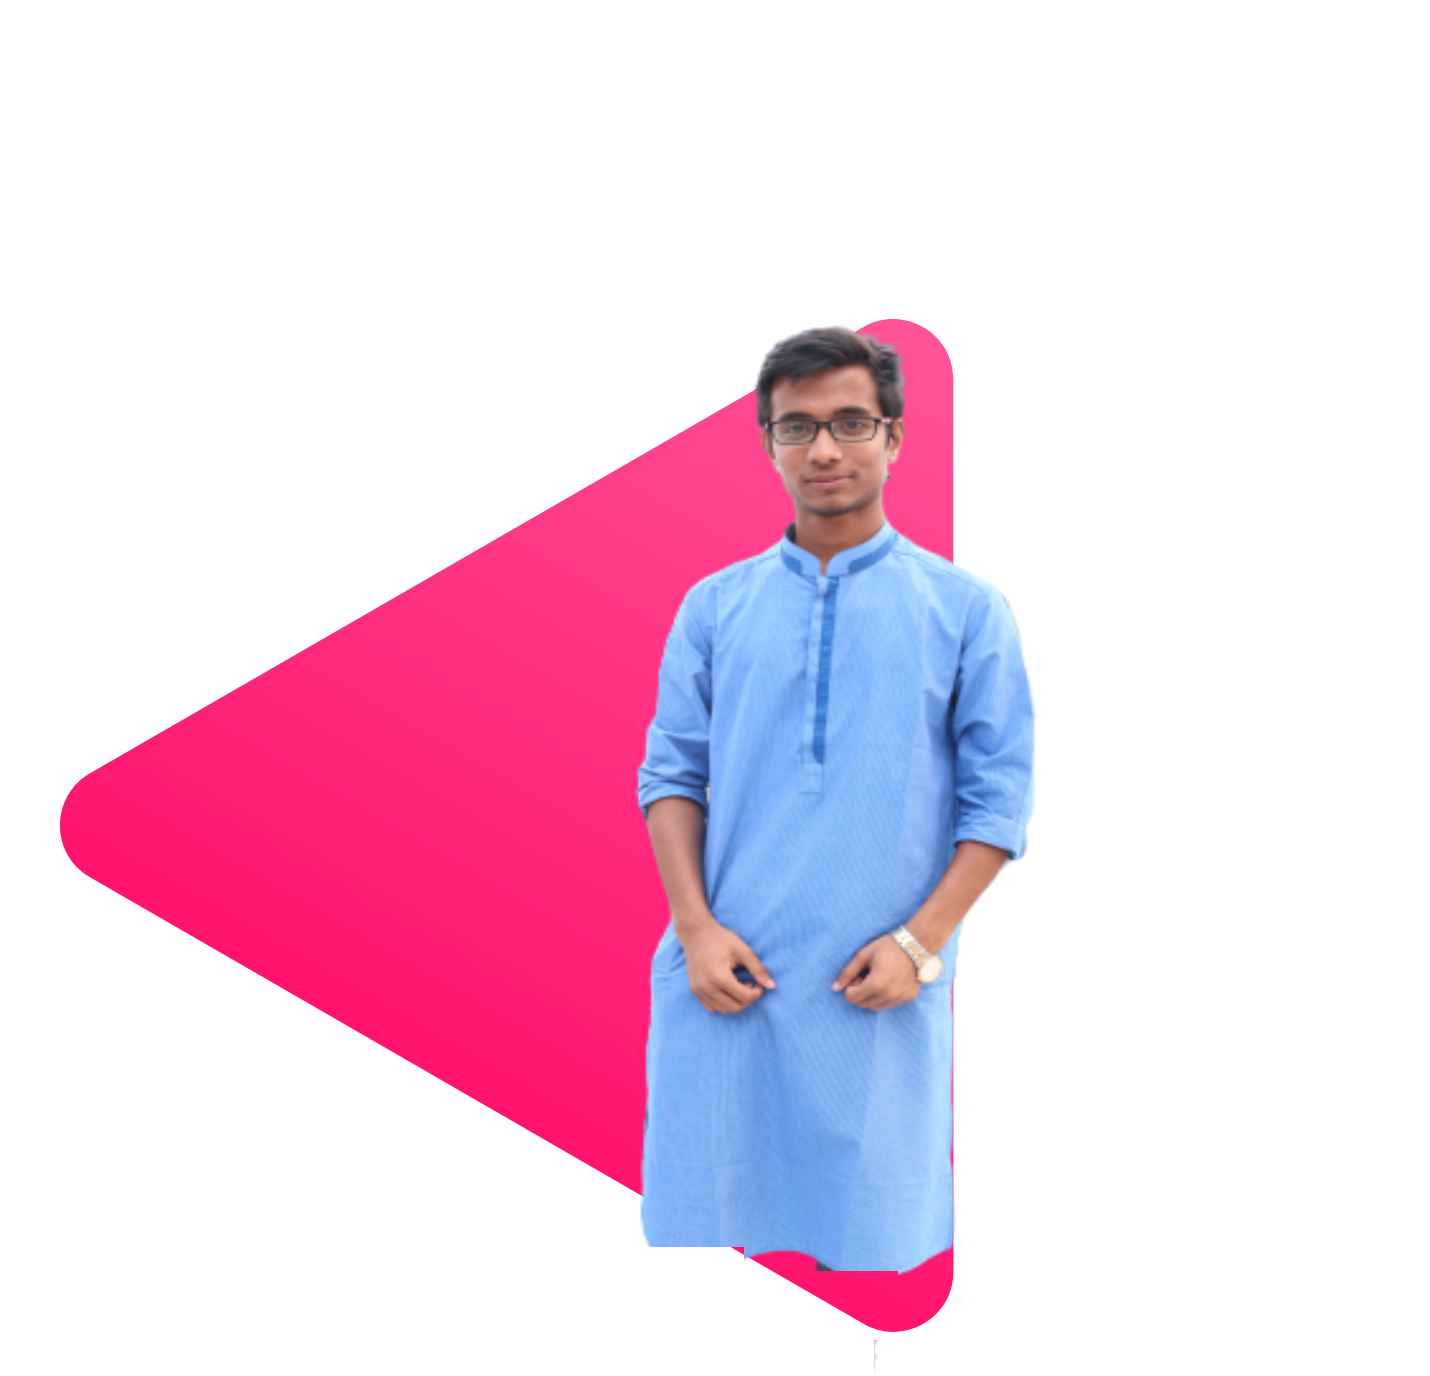
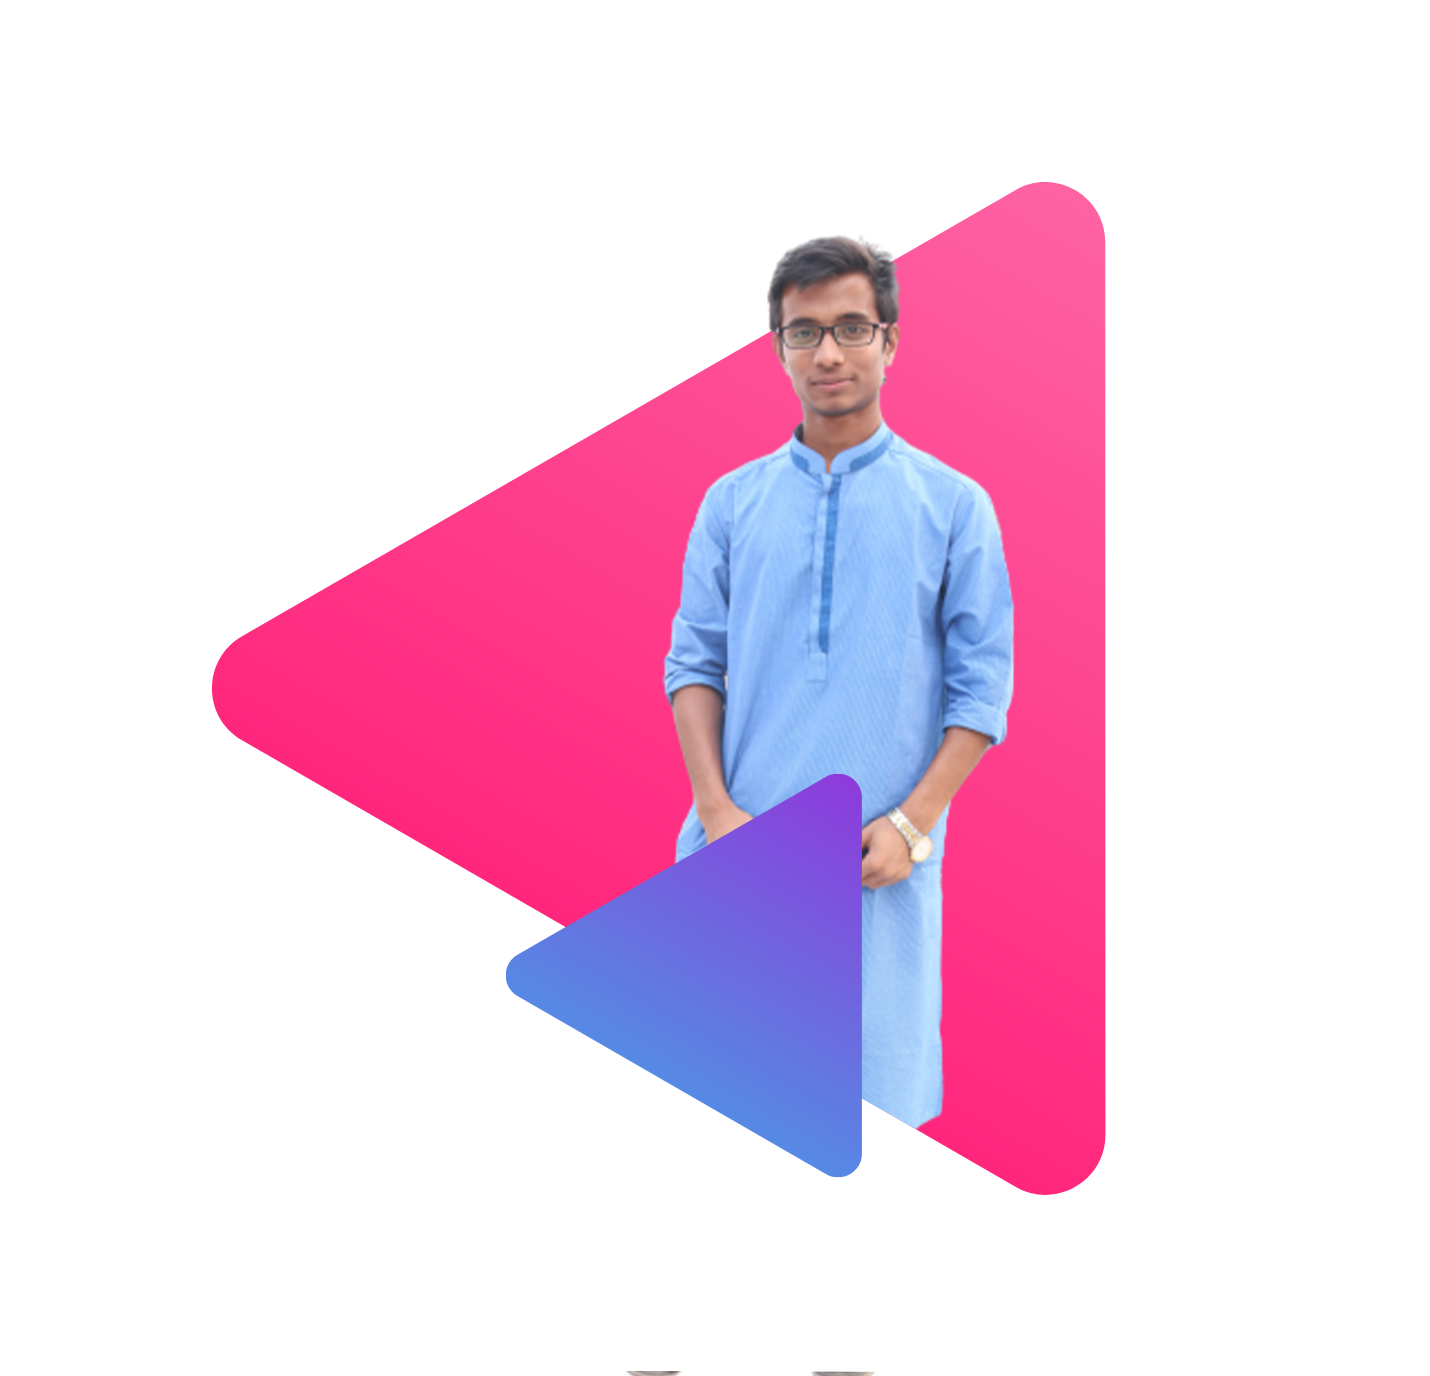
change bg

Changed region(s): [[0.0308, 0.125, 0.8, 1.0]]

diff --git a/index.html b/index.html
@@ -16,7 +16,7 @@
                 <a class="link" href="#">HIRE ME</a>
             </div>
             <div class="half-width">
-                <img src="images/peter.png" alt="">
+                <img src="images/iqbalbg1.png" alt="">
             </div>
         </div>
     </section>
@@ -24,7 +24,7 @@
     <section class="biography-area">
         <div class="container">
             <div class="half-width ">
-                <img src="images/peter_dream.png" alt="">
+                <img src="images/iqbalbg2.png" alt="">
             </div>
             <div class="half-width align">
                 <h1>Biography</h1>
